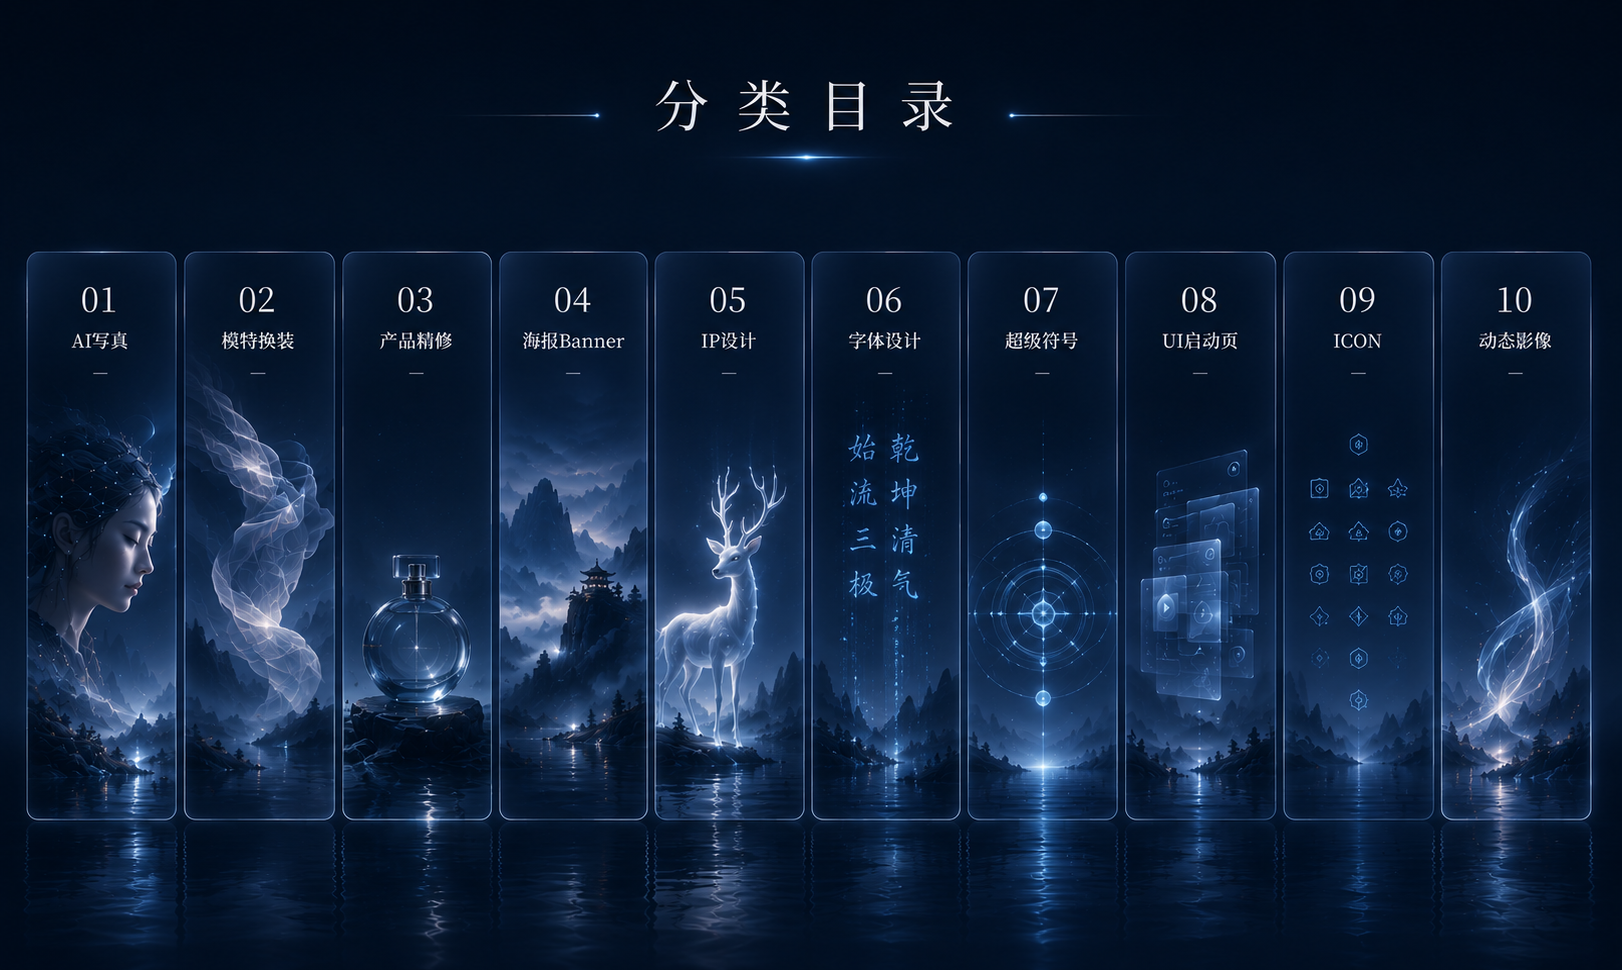
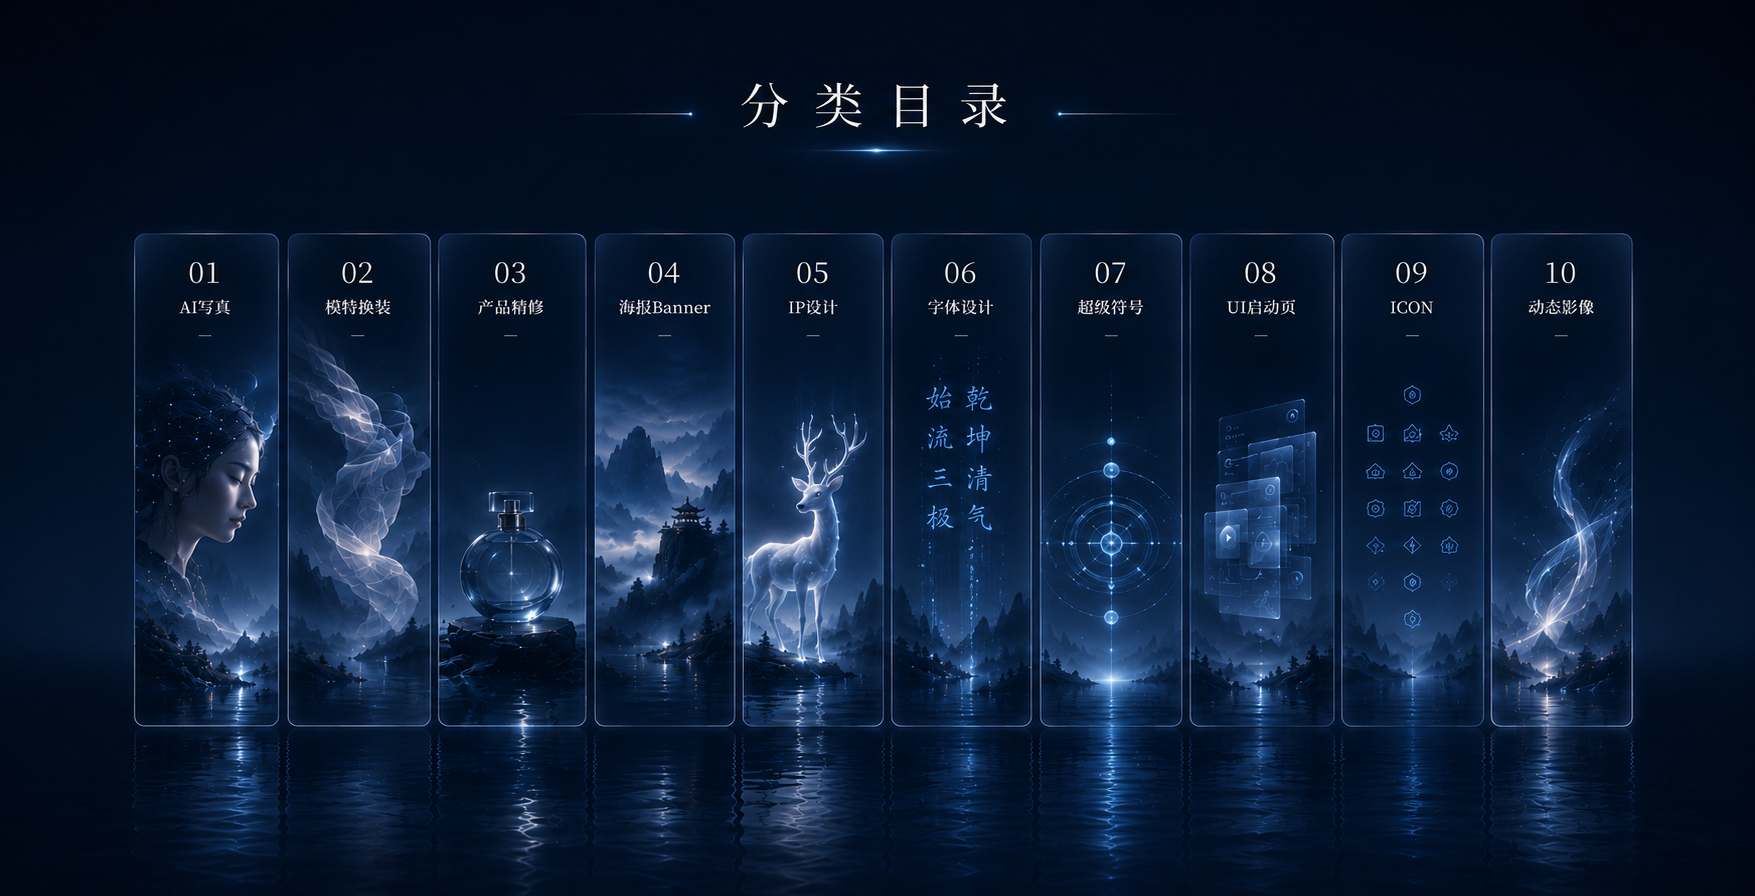
Replace homepage category directory module

diff --git a/card-color-overrides.css b/card-color-overrides.css
@@ -47,3 +47,22 @@ body #projects .project-item-narrow::before {
   background: linear-gradient(90deg, transparent, rgba(226, 190, 118, 0.34), transparent) !important;
   opacity: 0.48 !important;
 }
+
+/* Homepage category directory replacement: match 分类项目目录1.1.png proportions and hotspots. */
+.category-hall {
+  width: min(1755px, calc(100vw - 36px)) !important;
+}
+
+.category-hall .category-grid {
+  top: 26% !important;
+  right: 7% !important;
+  bottom: 18.8% !important;
+  left: 7.6% !important;
+  gap: 0.52% !important;
+}
+
+@media (max-width: 760px) {
+  .category-hall {
+    min-width: 980px !important;
+  }
+}
